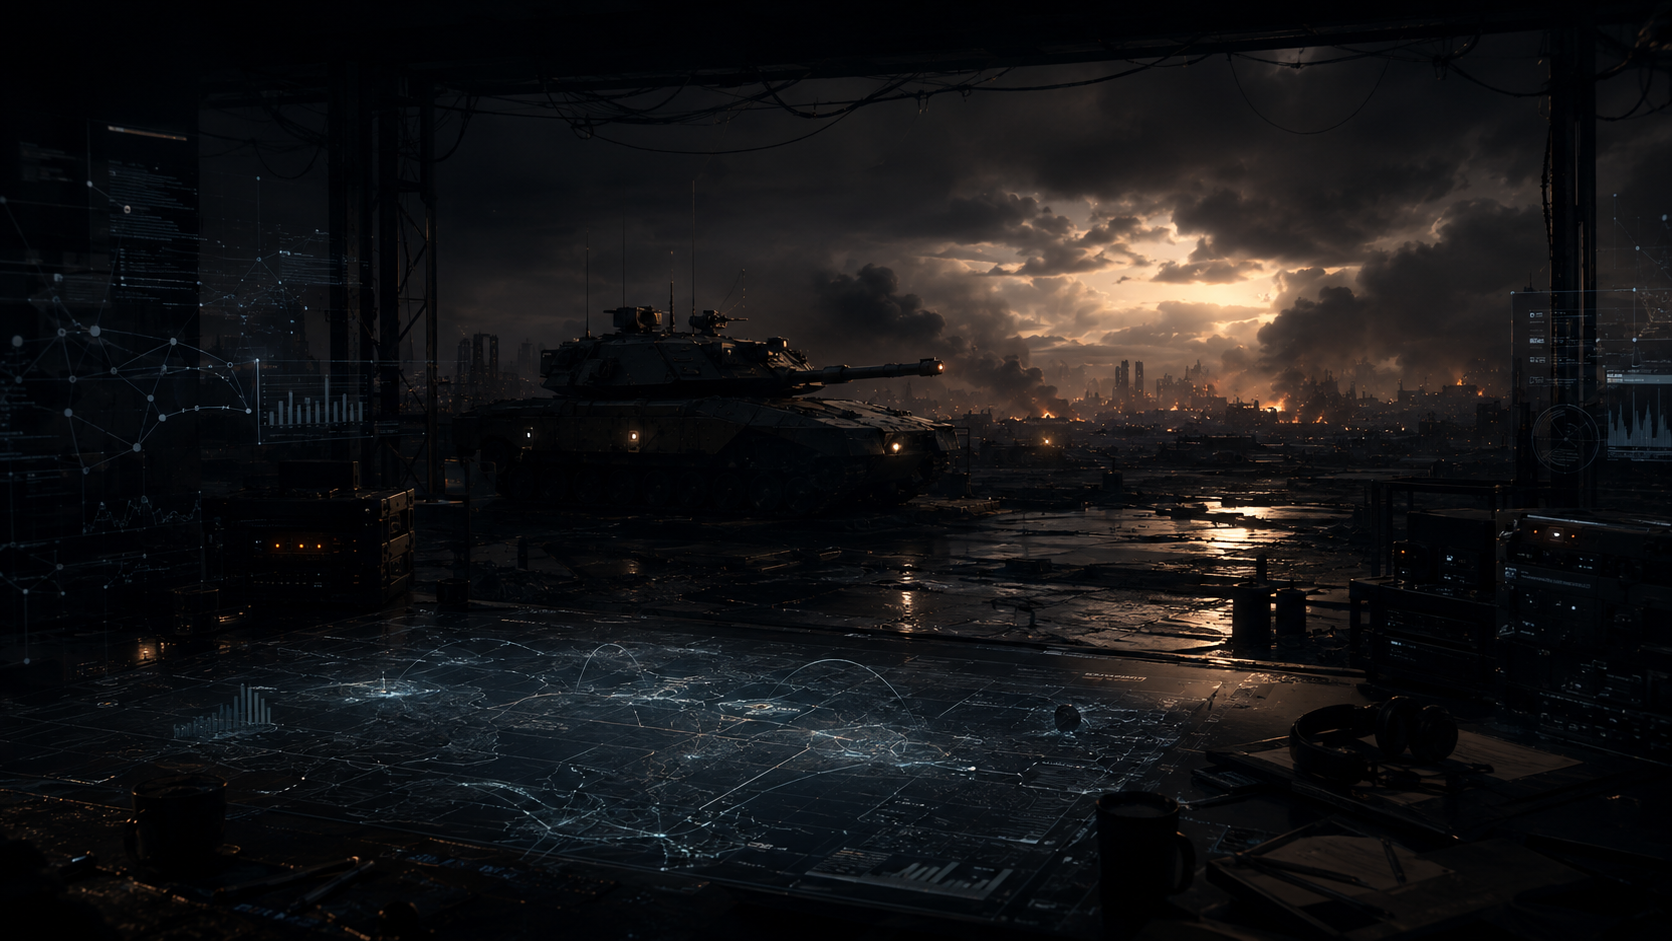
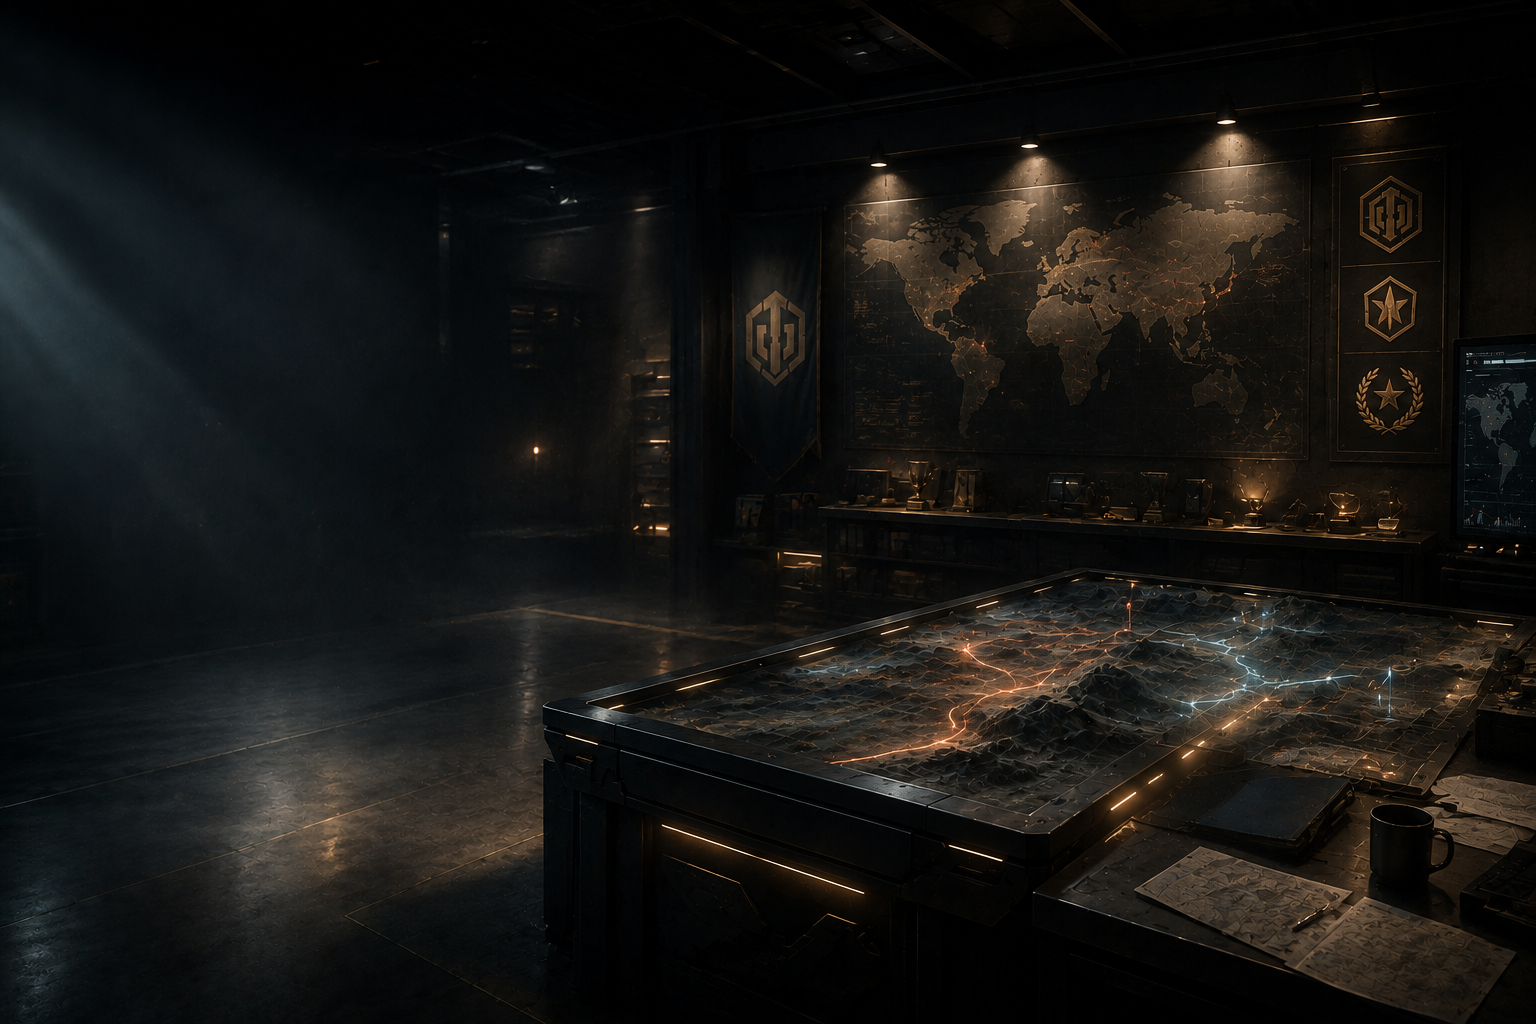
更新 Showcase 背景素材

diff --git a/frontend/homepage/sponsor.html b/frontend/homepage/sponsor.html
@@ -10,7 +10,7 @@
 :root{color-scheme:dark;--surface:rgba(13,19,22,.91);--text:#e9e7e0;--muted:#a8aaa5;--heading:#f6f1e7;--border:#39444a;--accent:#f0a42b}
 *{box-sizing:border-box;margin:0;padding:0}
 html,body{min-height:100%}
-body{min-height:100vh;display:flex;flex-direction:column;color:var(--text);font-family:-apple-system,BlinkMacSystemFont,"Segoe UI",Roboto,"Noto Sans",sans-serif;background:linear-gradient(rgba(4,8,10,.46),rgba(4,8,10,.76)),url('/sponsor-bg.svg') center/cover no-repeat,#080c0f}
+body{min-height:100vh;display:flex;flex-direction:column;color:var(--text);font-family:-apple-system,BlinkMacSystemFont,"Segoe UI",Roboto,"Noto Sans",sans-serif;background:linear-gradient(rgba(4,8,10,.46),rgba(4,8,10,.76)),url('/sponsor-bg.png') center/cover no-repeat,#080c0f}
 .topbar{position:fixed;inset:0 0 auto;z-index:100;height:52px;display:flex;align-items:center;gap:10px;padding:8px 20px;background:rgba(9,14,17,.94);border-bottom:1px solid var(--border);backdrop-filter:blur(14px)}
 .tb-brand{color:var(--heading);font-weight:800;text-decoration:none}
 .tb-back,.lang-select{border:1px solid var(--border);border-radius:7px;background:#11191d;color:#d8d5cd;padding:6px 11px;font:inherit}

diff --git a/frontend/src/assets/showcase/README.md b/frontend/src/assets/showcase/README.md
@@ -7,7 +7,7 @@
 - 每个正式产品页面必须拥有自己的专属背景资产，不再使用一个 shared background 覆盖多个页面。
 - **当前 SPA 正式展示层使用高质量 PNG**（`*-v1.png` / `hero-v4.png`）；它们是当前 showcase 的 canonical assets。
 - V1/V2/V3 SVG 保留在仓库中作为 fallback / 视觉历史，**不再控制 SPA 正式页面**（正式 CSS 不优先引用它们）；独立静态页可使用专属 SVG 资产。
-- 素材不得包含必须可读的文字、Logo、按钮或业务数值；真实 UI 必须由 Vue/CSS 渲染。
+- 素材只负责氛围和页面识别；背景中的装饰性文字、Logo 或徽标必须来自已获授权的用户提供素材，不能替代真实 UI、按钮、业务数值或可交互状态。
 - 背景只承担 atmosphere / product identity，不得作为 Replay、Map、Tankopedia、Rating 或 AI Review 的事实来源。
 - 背景必须铺满 Topbar 下方整个 viewport（`position: fixed` 伪元素，见 `showcase-backgrounds.css` 的基础 contract）；不得只存在于 1420/1720/1760px content container 内；不使用 `background-attachment: fixed`。
 - 表格、表单、真实地图、战局重建和操作按钮可读性优先；遮罩（light/dark）由 overlay/surface 控制，由 `showcase-backgrounds.css` + `showcase-backgrounds-v3.css` + `showcase-cohesion.css` 实现，不需要为明暗主题准备两套图片。
@@ -18,12 +18,12 @@
 
 | Page                 | File                                      | Role                                | 替换约束                                                                                                      |
 |----------------------|-------------------------------------------|-------------------------------------|---------------------------------------------------------------------------------------------------------------|
-| Home — Hero          | `home/hero-v4.png`                        | Hero 横幅背景（全屏 + hero 内背景） | 坦克主体应在画面右侧、左侧留暗色负空间给文案；保持宽幅（约 2.5:1）；不得含可读文字/按钮                       |
+| Home — Hero          | `home/hero-v4.png`                        | Hero 横幅背景（全屏 + hero 内背景） | 坦克主体应在画面右侧、左侧留暗色负空间给文案；保持宽幅（约 2.5:1）；背景文字不得替代真实 UI                       |
 | Home — Replay 卡片   | `home/card-replay-analysis-v1.png`        | feature card media area（3:2 裁切） | 建议 3:2；主体居中即可，卡片以 object-fit: cover 裁切                                                         |
 | Home — HoF 卡片      | `home/card-hall-of-fame-v1.png`           | feature card media area（3:2 裁切） | 同上                                                                                                          |
 | Home — Coaching 卡片 | `home/card-coaching-v1.png`               | feature card media area（3:2 裁切） | 同上（训练场主题）                                                                                            |
 | Home — Support 卡片  | `home/card-support-v1.png`                | feature card media area（3:2 裁切） | 同上（工坊/支持主题）                                                                                         |
-| Replay Parser        | `replay/replay-hero-battlefield-v1.png`   | 全屏背景 + upload 战术表面          | 16:9；暗部为主；不得出现 UI/dashboard 元素                                                                    |
+| Replay Parser        | `replay/replay-hero-battlefield-v1.png`   | 全屏背景 + upload 战术表面          | 16:9；暗部为主；背景中的地图/标记仅作氛围，不作为回放事实                                               |
 | Hall of Fame         | `hof/hof-hero-hall-v1.png`                | 全屏背景                            | 16:9；金色荣誉大厅主题                                                                                        |
 | Rating               | `rating/rating-hero-analysis-v1.png`      | 全屏背景                            | 16:9；图片内即使有生成式 dashboard 元素也只能是低权重氛围，真实 Rating 数据必须覆盖在独立 readable surface 上 |
 | Profile              | `profile/profile-hero-camp-v1.png`        | 全屏背景 + profile-hero 表面        | 16:9；不引入 avatar 依赖                                                                                      |
@@ -32,7 +32,7 @@
 | HoF Admin            | `hof-admin/hof-admin-hero-command-v1.png` | 全屏背景（强度较弱）                | 16:9；CRUD / review 数据必须保持清晰                                                                          |
 | Version / Changelog  | `version/version-hero-workshop-v1.png`    | 全屏背景                            | 16:9；工坊主题                                                                                                |
 | Contact              | `contact/contact-hero-radio-v1.png`       | 全屏背景                            | 16:9；通信塔/无线电主题                                                                                       |
-| Sponsor              | `sponsor/sponsor-bg-v1.svg`               | 独立赞助页背景                      | 纯抽象工坊几何元素；不得包含品牌标识、可读文字或第三方素材                                                     |
+| Sponsor              | `../../../public/sponsor-bg.png`          | 独立赞助页背景                      | 用户提供的原创素材；仅作赞助页氛围背景，不承载赞助配置或二维码                                               |
 
 隐藏的 `PlaybackQaPage` 是 QA / production-component verification 页面，不属于正式产品 Showcase，因此不创建营销背景。
 
@@ -55,4 +55,4 @@
 
 当前 PNG 单张约 2–2.5MB，全站资产约 35MB（dist 产物）。浏览器只会在对应页面渲染时下载该页背景（CSS background-image 惰性加载），但 Home 页一次会加载 hero + 4 张卡片约 11MB。若后续需要优化体积，优先考虑 WebP/AVIF 编码或服务端尺寸分级，**不要牺牲画面质量**。
 
-Last updated: 2026-08-24
+Last updated: 2026-09-03

diff --git a/docs/CHANGELOG-PRODUCT.md b/docs/CHANGELOG-PRODUCT.md
@@ -8,9 +8,8 @@
 - **百场统一人工审核**：移除 WG 官方统计自动认证入口；使用 Wargaming ASIA/EU/NA 登录的玩家仍可正常登录并同步个人资料，百场提交统一上传成绩截图和正好 5 个回放，沿用人工审核。
 
 ### Fixed
-- **赞助页背景版权风险**：赞助页改用专属的无品牌标识背景，不再展示旧的首页支持卡片背景；赞助配置和二维码加载逻辑不变。
+- **更新页面背景素材**：主页、各功能页和赞助页改用用户提供的原创 WTC 视觉素材；页面功能、布局、赞助配置和二维码加载逻辑不变。
 - **生产监控首页与认证排障看板**：管理员现在可以在 Grafana 首页同时看到 Backend、Keycloak 认证、AI/回放队列、CPU/RAM/Disk/Load、JVM/GC 和最近异常；新增 Keycloak 专用看板支持 HTTP 5xx/P95 与认证日志关键词下钻，默认最近 15 分钟自动刷新。
-- **更新 Showcase 背景**：主页及各功能页现在使用无品牌标识的原创战术场景背景，去除原背景中可能引发版权风险的 WG / World of Tanks 图形与文字；页面功能和布局不变。
 - **Android QQ / Keycloak 登录修复**：Android 登录现在会把完整认证过程保持在同一个 WebView 中，
   并显式启用登录所需 Cookie；不会在 QQ 登录中途意外打开系统浏览器导致会话丢失。普通外链仍按原规则
   打开系统浏览器。

diff --git a/docs/CHANGELOG.md b/docs/CHANGELOG.md
@@ -8,7 +8,7 @@
 - **Hundred WG statistics path**：移除百场 `WARGAMING_API` 官方统计、自动审核 endpoint、snapshot DTO/映射与前端分支；Wargaming ASIA/EU/NA 登录和 Profile 同步保留，百场统一走 MANUAL 截图 + 5 replay 审核。新增生产存量清理工具，默认 dry-run，并按共享引用保护 MANUAL 与单场名人堂回放。
 
 ### Changed
-- **Sponsor background asset**：独立赞助页改用专属的无品牌标识 SVG 背景，不再复用首页支持卡片图片。
+- **Showcase background assets**：主页、各功能页和独立赞助页改用用户提供的原创背景素材；保留现有 canonical 资源路径、页面结构与响应式规则。
 - **Keycloak 与生产观测升级**：Keycloak 26.6.4 image build 启用 health/metrics，management `/metrics` 通过 Docker 内部端口 `9000` 纳入 Prometheus；Alloy/Loki 纳入 Keycloak 日志；新增固定版本 node-exporter、AI review queue depth Gauge 与 Keycloak/生产总览 Dashboard。保持公共 HTTP/Android contract、数据库 schema、业务处理入口与无用户级 metric label 不变。
 - **Battle Playback V2 backend-owned state facts**：将相对满血证明、DamageLoss 的 transient/ghost
   事实、模块/乘员清除 transition 与 consumable 全局失效边界收敛到 canonical backend projection；
